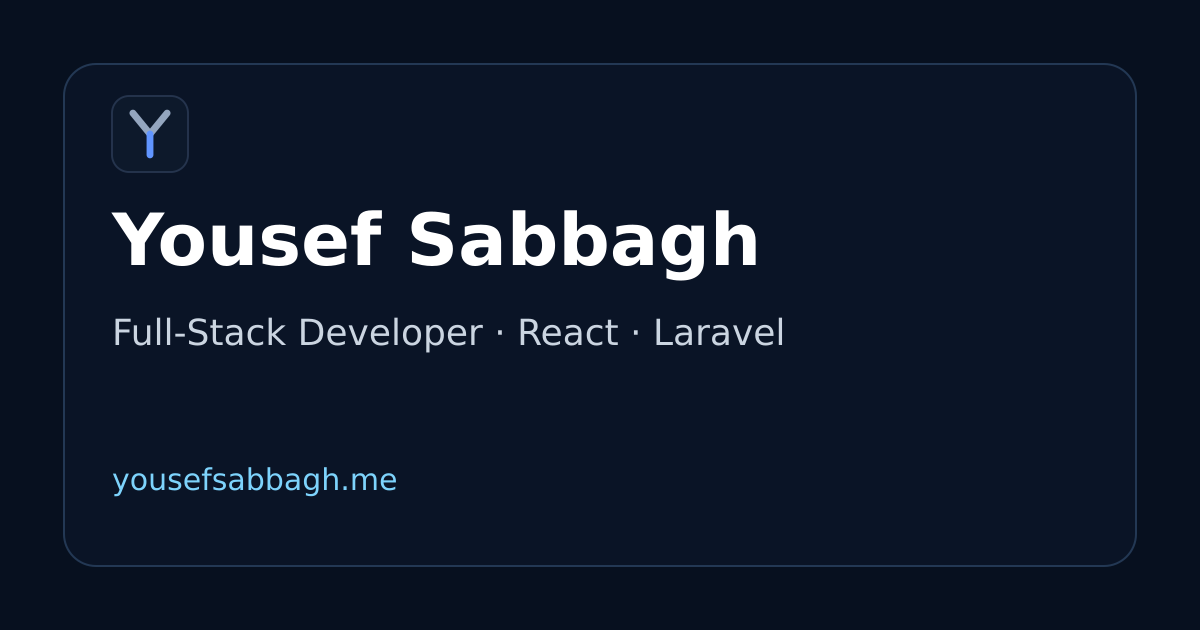
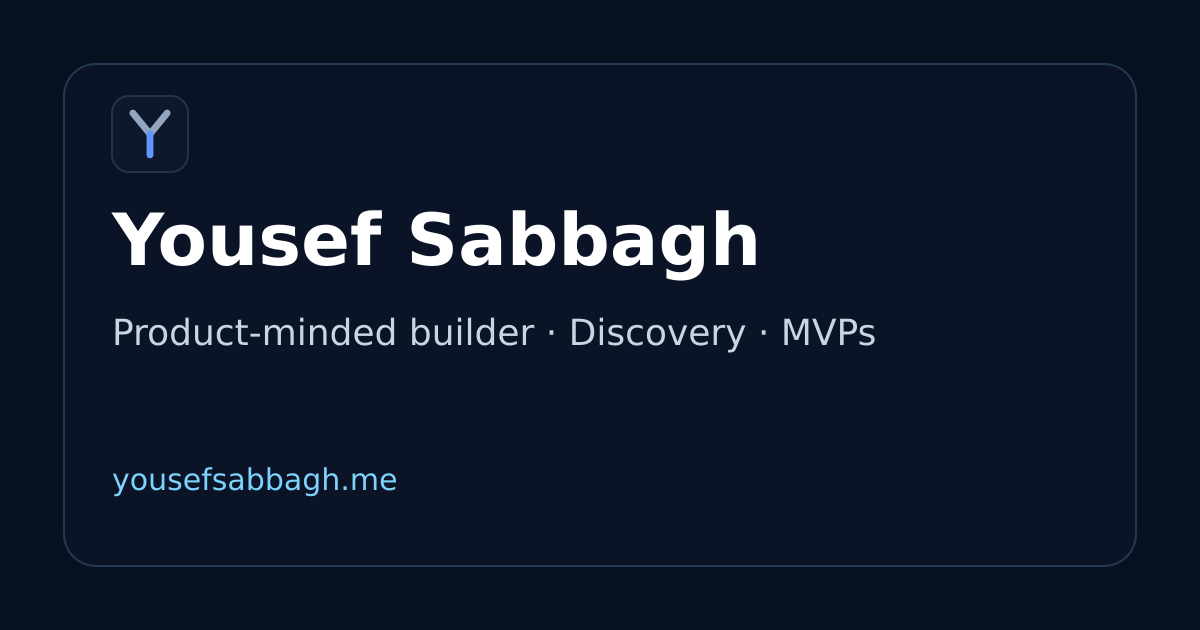
Reposition portfolio as product-first
- Hero, badge, CTAs and capability row now lead with discovery, scope, build, ship
- Product skills group first, with section renamed to Skills
- About, contact, footer, page title, meta tags, manifest and share image updated
- Services moved down to just before Contact

Changed region(s): [[0.0925, 0.4825, 0.74, 0.573]]

diff --git a/src/components/Hero.tsx b/src/components/Hero.tsx
@@ -4,7 +4,7 @@ import Icon from "./Icon";
 import profileImage from "../assets/profile.webp";
 import { whatsappLink, resumeUrl } from "../data/site";
 
-const headline = "Full-Stack Developer building real-world web products from idea to implementation.";
+const headline = "Product-minded builder who finds the real problem and ships the first version.";
 
 export default function Hero() {
   const reduced = useReducedMotion();
@@ -32,7 +32,7 @@ export default function Hero() {
       <div className="hero-inner">
         <div>
           <motion.p className="hero-kicker" initial={{ opacity: 0 }} animate={{ opacity: 1 }} transition={{ duration: .7 }}>
-            <span className="availability-dot" /> Available for freelance projects &amp; full-stack roles
+            <span className="availability-dot" /> Open to product internships and roles
           </motion.p>
           <h1 aria-label={headline}>
             {headline.split(" ").map((word, index) => (
@@ -48,27 +48,27 @@ export default function Hero() {
             ))}
           </h1>
           <motion.div initial={{ opacity: 0, y: reduced ? 0 : 16 }} animate={{ opacity: 1, y: 0 }} transition={{ duration: .8, delay: reduced ? 0 : .65 }}>
-            <p className="hero-description">I build complete web applications — frontend, backend and database — with React, TypeScript, Laravel and SQL. From a rough idea to a working product.</p>
+            <p className="hero-description">I talk to users, define the MVP and write the requirements, then build it myself in React and TypeScript. From customer conversations to a live product.</p>
             <div className="hero-actions">
-              <a href={whatsappLink} target="_blank" rel="noreferrer" className="button-primary">Start a project <Icon name="arrow" className="h-3.5 w-3.5" /></a>
-              <a href="#projects" className="button-secondary">View my work <Icon name="arrow" className="h-3.5 w-3.5 rotate-90" /></a>
+              <a href="#projects" className="button-primary">View my work <Icon name="arrow" className="h-3.5 w-3.5 rotate-90" /></a>
               <a href={resumeUrl} download className="button-secondary">Download CV</a>
+              <a href={whatsappLink} target="_blank" rel="noreferrer" className="button-secondary">Let&apos;s talk <Icon name="arrow" className="h-3.5 w-3.5" /></a>
             </div>
             <dl className="hero-capabilities">
-              {[["Frontend", "React · TypeScript"], ["Backend", "PHP · Laravel"], ["Data", "SQL · MariaDB"], ["Delivery", "Idea to product"]].map(([label, value]) => (
+              {[["Discovery", "Customer interviews"], ["Scope", "MVP & requirements"], ["Build", "React · TypeScript"], ["Ship", "Live products"]].map(([label, value]) => (
                 <div key={label}><dt>{label}</dt><dd>{value}</dd></div>
               ))}
             </dl>
           </motion.div>
         </div>
         <motion.div className="portrait-wrap" initial={{ opacity: 0, y: reduced ? 0 : 16 }} animate={{ opacity: 1, y: 0 }} transition={{ duration: .9, delay: reduced ? 0 : .3 }}>
-          <div className="portrait-label"><span>YOUSEF SABBAGH</span><span>ENGINEER / BUILDER</span></div>
+          <div className="portrait-label"><span>YOUSEF SABBAGH</span><span>PRODUCT / BUILDER</span></div>
           <div className="portrait-frame">
             <div className="portrait-border" aria-hidden="true" />
             <div className="portrait-inside">
               <img src={profileImage} alt="Yousef Sabbagh" className="portrait-image" width={480} height={570} loading="eager" fetchPriority="high" />
               <div className="portrait-caption">
-                <div><p>Full-Stack Developer</p><p>Damascus, Syria · Remote-ready</p></div>
+                <div><p>Product-minded builder</p><p>Damascus, Syria · Remote-ready</p></div>
                 <Icon name="code" className="h-5 w-5 text-[#86a9e8]" />
               </div>
             </div>
@@ -76,7 +76,7 @@ export default function Hero() {
           <span className="portrait-corner" aria-hidden="true" />
         </motion.div>
       </div>
-      <div className="hero-bottom"><span>Frontend to database. One connected product.</span><a href="#projects">Selected work <Icon name="arrow" className="h-3 w-3 rotate-90" /></a></div>
+      <div className="hero-bottom"><span>From the user&apos;s problem to a live product.</span><a href="#projects">Selected work <Icon name="arrow" className="h-3 w-3 rotate-90" /></a></div>
     </section>
   );
 }

diff --git a/index.html b/index.html
@@ -13,20 +13,20 @@
     <meta name="author" content="Yousef Sabbagh" />
     <meta
       name="description"
-      content="Yousef Sabbagh — Full-Stack Developer (React · Laravel) available for freelance projects and full-stack roles. Builder of Buildak, a Syria Build Week 2026 finalist."
+      content="Yousef Sabbagh — product-minded builder and IT Engineering student. Founder of Ustazna and builder of Buildak, a Syria Build Week 2026 finalist."
     />
     <meta
       name="keywords"
-      content="Yousef Sabbagh, Full-Stack Developer, Software Engineer, React, TypeScript, PHP, Laravel, REST APIs, SQL, MariaDB"
+      content="Yousef Sabbagh, Product, Product Intern, Customer Discovery, MVP, Full-Stack Developer, React, TypeScript, PHP, Laravel, REST APIs, SQL, MariaDB"
     />
 
     <link rel="canonical" href="https://yousefsabbagh.me" />
 
     <meta property="og:type" content="website" />
-    <meta property="og:title" content="Yousef Sabbagh | Full-Stack Developer" />
+    <meta property="og:title" content="Yousef Sabbagh | Product-Minded Builder" />
     <meta
       property="og:description"
-      content="Yousef Sabbagh — Full-Stack Developer (React · Laravel) available for freelance projects and full-stack roles. Builder of Buildak, a Syria Build Week 2026 finalist."
+      content="Yousef Sabbagh — product-minded builder and IT Engineering student. Founder of Ustazna and builder of Buildak, a Syria Build Week 2026 finalist."
     />
     <meta property="og:site_name" content="Yousef Sabbagh Portfolio" />
     <meta property="og:url" content="https://yousefsabbagh.me" />
@@ -34,22 +34,22 @@
     <meta property="og:image" content="https://yousefsabbagh.me/og-image.png" />
     <meta property="og:image:width" content="1200" />
     <meta property="og:image:height" content="630" />
-    <meta property="og:image:alt" content="Yousef Sabbagh — Full-Stack Developer · React · Laravel" />
+    <meta property="og:image:alt" content="Yousef Sabbagh — Product-minded builder" />
     <meta name="twitter:card" content="summary_large_image" />
     <meta name="twitter:image" content="https://yousefsabbagh.me/og-image.png" />
-    <meta name="twitter:title" content="Yousef Sabbagh | Full-Stack Developer" />
+    <meta name="twitter:title" content="Yousef Sabbagh | Product-Minded Builder" />
     <meta
       name="twitter:description"
-      content="Yousef Sabbagh — Full-Stack Developer (React · Laravel) available for freelance projects and full-stack roles. Builder of Buildak, a Syria Build Week 2026 finalist."
+      content="Yousef Sabbagh — product-minded builder and IT Engineering student. Founder of Ustazna and builder of Buildak, a Syria Build Week 2026 finalist."
     />
 
-    <title>Yousef Sabbagh | Full-Stack Developer</title>
+    <title>Yousef Sabbagh | Product-Minded Builder</title>
     <script type="application/ld+json">
       {
         "@context": "https://schema.org",
         "@type": "Person",
         "name": "Yousef Sabbagh",
-        "jobTitle": "Full-Stack Developer",
+        "jobTitle": "Product-Minded Builder",
         "url": "https://yousefsabbagh.me",
         "email": "yousef.ite.sabbagh@gmail.com",
         "sameAs": [

diff --git a/src/components/About.tsx b/src/components/About.tsx
@@ -7,14 +7,14 @@ export default function About() {
         <div className="grid gap-12 lg:grid-cols-[1fr_1fr] lg:items-start">
           <div>
             <p className="section-label">About me</p>
-            <h2 className="section-title">I turn requirements into structured, maintainable software.</h2>
+            <h2 className="section-title">I start with the user&apos;s problem, then build the product.</h2>
           </div>
           <div>
             <p className="text-lg leading-9 text-slate-300">
-              I&apos;m Yousef Sabbagh, a Full-Stack Developer and Information Technology Engineering student. My work covers responsive frontend interfaces, backend systems, REST APIs, authentication, authorization, and relational databases.
+              I&apos;m Yousef Sabbagh, an Information Technology Engineering student who works where product and engineering meet. I talk to the people who will use a product, decide what the first version must do, and write it down clearly enough to build.
             </p>
             <p className="mt-5 leading-8 text-slate-400">
-              I enjoy understanding how a product should work, shaping its data and business rules, and then building the complete experience—from the first screen to the database behind it. I&apos;m available for freelance projects and full-stack roles where I can contribute to real production systems.
+              Because I can build it myself (React, TypeScript, Laravel and SQL), my requirements stay realistic and I can ship a working MVP to test with real users. I&apos;m looking for product internships and roles, and I still take on selected freelance MVP projects.
             </p>
             <p className="mt-5 text-sm leading-8 text-slate-400">Languages: Arabic (native), English (C1).</p>
             <div className="mt-8 rounded-2xl border border-white/8 bg-[#0a1426] p-5">

diff --git a/src/components/Contact.tsx b/src/components/Contact.tsx
@@ -3,7 +3,7 @@ import { emailComposeLink, linkedinProfile, whatsappLink } from "../data/site";
 import type { IconName } from "../types";
 
 const options: { label: string; detail: string; href: string; icon: IconName; primary?: boolean }[] = [
-  { label: "WhatsApp", detail: "Start a project conversation", href: whatsappLink, icon: "whatsapp", primary: true },
+  { label: "WhatsApp", detail: "Start a conversation", href: whatsappLink, icon: "whatsapp", primary: true },
   { label: "Email", detail: "Send a brief or an opportunity", href: emailComposeLink, icon: "mail" },
   { label: "LinkedIn", detail: "Connect and talk about a role", href: linkedinProfile, icon: "linkedin" },
 ];
@@ -18,7 +18,7 @@ export default function Contact() {
           <div className="contact-heading">
             <p className="section-label">Contact</p>
             <h2 className="mt-4 max-w-3xl">Have a project or a role in mind? Let&apos;s talk.</h2>
-            <p className="mt-5 max-w-2xl text-lg">A product to build, a workflow to improve, or a full-stack role to discuss. Tell me what you have in mind.</p>
+            <p className="mt-5 max-w-2xl text-lg">A product role, an internship, or an MVP to scope and build. Tell me what you have in mind.</p>
           </div>
           <div className="contact-options">
             {options.map((option) => (

diff --git a/src/components/Expertise.tsx b/src/components/Expertise.tsx
@@ -7,11 +7,11 @@ export default function Expertise() {
 <section id="expertise" className="section-shell border-t border-white/8 bg-white/[0.012]">
         <div className="section-heading">
           <div>
-            <p className="section-label">Technical expertise</p>
-            <h2 className="section-title">Strong across the complete application stack.</h2>
+            <p className="section-label">Skills</p>
+            <h2 className="section-title">Product sense, backed by real engineering.</h2>
           </div>
           <p className="section-description">
-            I work across browser interfaces, server-side application logic, API contracts, authentication, authorization, and data persistence—not as isolated layers, but as one connected product.
+            I start from the user and the business problem, then carry the solution through interface, logic and data, so what I specify is something I know can be built.
           </p>
         </div>
 

diff --git a/src/data/skills.ts b/src/data/skills.ts
@@ -2,6 +2,20 @@ import type { SkillGroup } from "../types";
 
 export const skillGroups: SkillGroup[] = [
   {
+    title: "Product",
+    icon: "sparkles",
+    description: "Understanding the problem, defining the first useful version, and mapping the experience before building.",
+    skills: [
+      "Customer discovery",
+      "Customer interviews",
+      "MVP scoping",
+      "Requirements & specs",
+      "User flows",
+      "Competitor research",
+      "Business models",
+    ],
+  },
+  {
     title: "Frontend Engineering",
     icon: "code",
     description:
@@ -65,12 +79,6 @@ export const skillGroups: SkillGroup[] = [
       "PowerShell",
       "VS Code",
     ],
-  },
-  {
-    title: "Product",
-    icon: "sparkles",
-    description: "Understanding the problem, defining the first useful version, and mapping the experience before building.",
-    skills: ["Customer discovery", "MVP scoping", "User flows", "Market research"],
   },
 ];
 

diff --git a/src/components/Projects.tsx b/src/components/Projects.tsx
@@ -17,11 +17,11 @@ export default function Projects() {
 <section id="projects" className="section-shell border-t border-white/8">
         <div className="section-heading">
           <div>
-            <p className="section-label">Selected engineering work</p>
+            <p className="section-label">Selected work</p>
             <h2 className="section-title">Products built around real workflows.</h2>
           </div>
           <p className="section-description">
-            Each project demonstrates a different part of full-stack engineering: server-side business logic, API design, relational data, frontend architecture, offline storage, or complete product flows.
+            Each project starts from a real user problem: what I learned from customers, what I chose to build first, and how I shipped it.
           </p>
         </div>
 

diff --git a/src/components/Footer.tsx b/src/components/Footer.tsx
@@ -6,7 +6,7 @@ export default function Footer() {
   return (
 <footer className="border-t border-white/8 px-5 py-8">
         <div className="mx-auto flex max-w-7xl flex-col gap-4 text-sm text-slate-500 sm:flex-row sm:items-center sm:justify-between lg:px-3">
-          <p>© 2026 Yousef Sabbagh. Full-Stack Developer.</p>
+          <p>© 2026 Yousef Sabbagh. Product-minded builder.</p>
           <div className="flex items-center gap-5">
             <a href={githubProfile} target="_blank" rel="noreferrer" className="icon-button" aria-label="GitHub"><Icon name="github" className="h-4 w-4" /></a>
             <a href={linkedinProfile} target="_blank" rel="noreferrer" className="icon-button" aria-label="LinkedIn"><Icon name="linkedin" className="h-4 w-4" /></a>

diff --git a/src/data/site.ts b/src/data/site.ts
@@ -5,10 +5,10 @@ export const linkedinProfile = "https://www.linkedin.com/in/yousef-sabbagh-a97ba
 
 export const navItems = [
   { label: "Projects", href: "#projects" },
-  { label: "Services", href: "#services" },
-  { label: "Expertise", href: "#expertise" },
+  { label: "Skills", href: "#expertise" },
   { label: "Experience", href: "#experience" },
   { label: "About", href: "#about" },
+  { label: "Services", href: "#services" },
   { label: "Contact", href: "#contact" },
 ];
 

diff --git a/src/App.tsx b/src/App.tsx
@@ -20,11 +20,11 @@ function App() {
       <Hero />
       <TechMarquee />
       <Projects />
-      <Services />
       <Process />
       <Expertise />
       <Experience />
       <About />
+      <Services />
       <Contact />
       <Footer />
       <WhatsAppButton />
